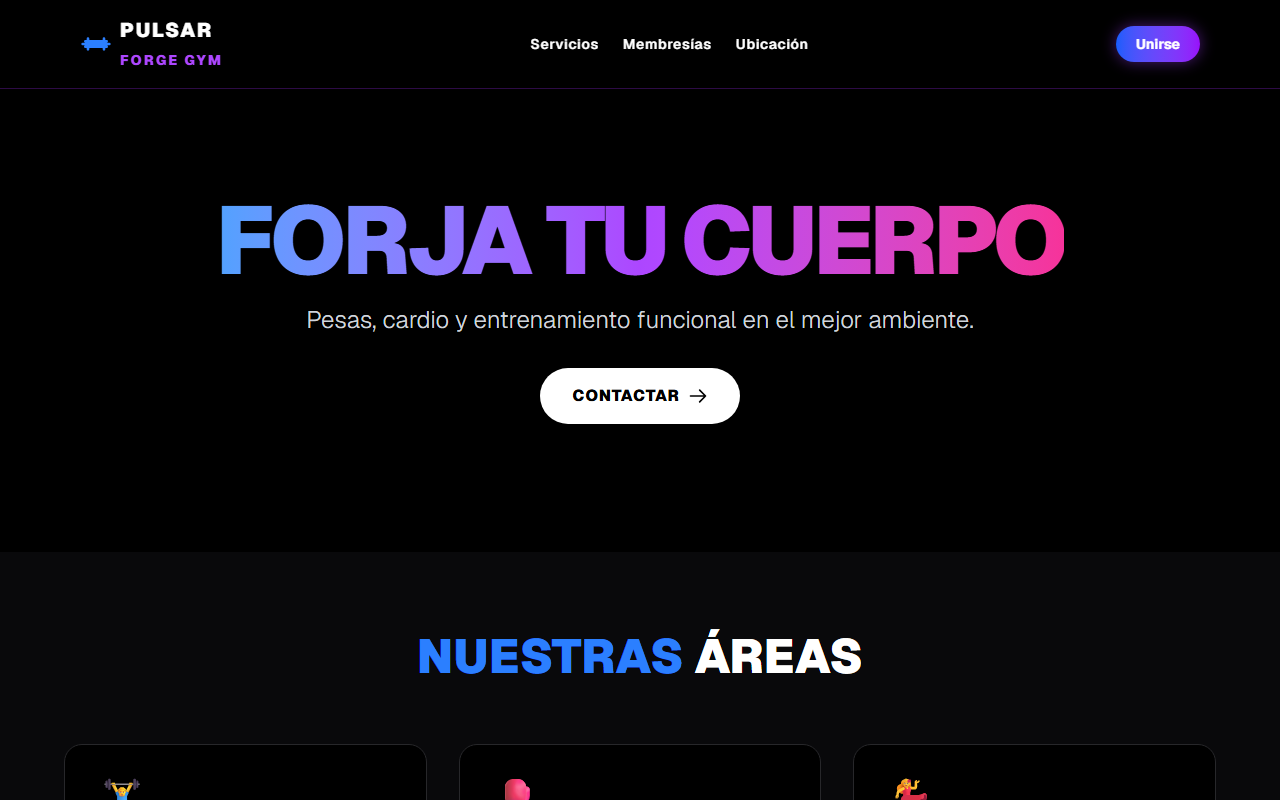
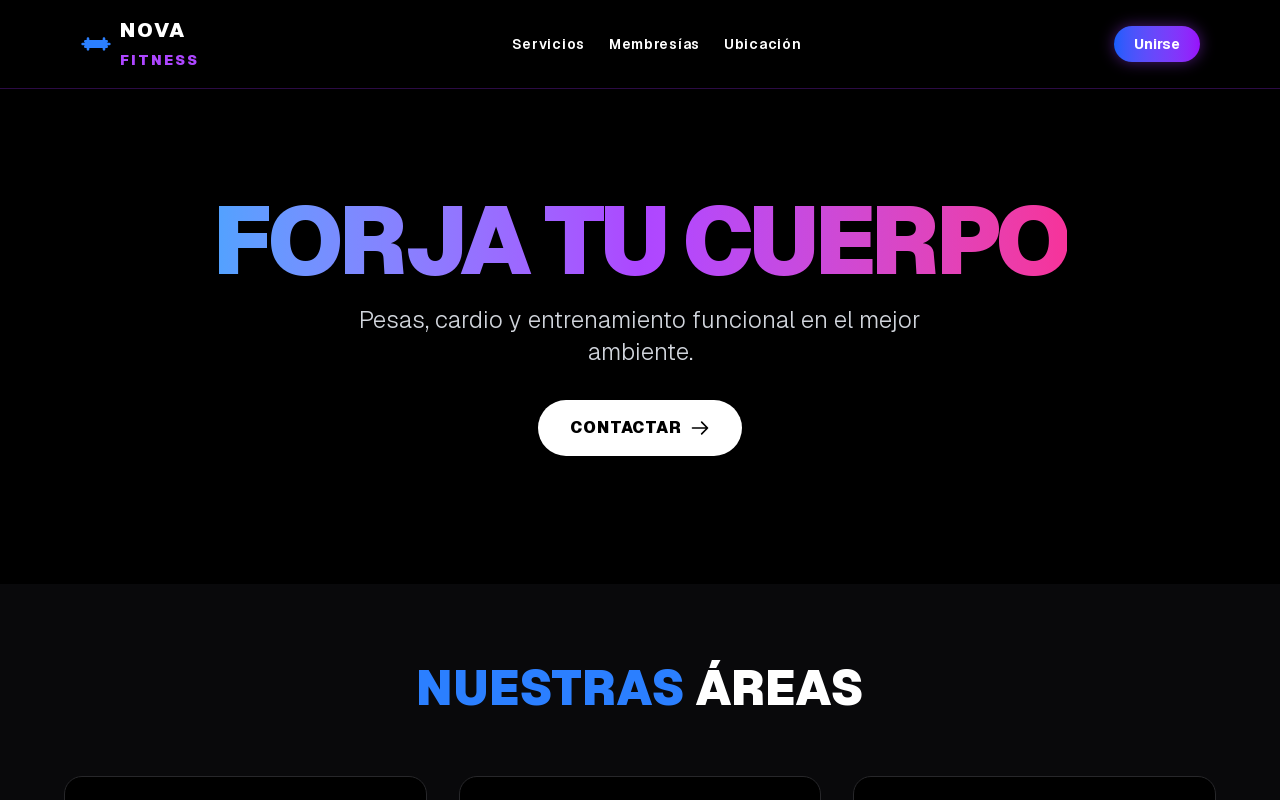
Plantillas de gym genéricas, botones visibles en tema claro y precios en celular
- Dark Purple y Orange Industrial ya no usan los datos reales de Pulsar Forge
  Gym y X GYM: ahora son "Nova Fitness" y "Titanio Gym" con direcciones
  ficticias, también como contenido inicial de landings nuevas. Las
  versiones reales siguen en /preview. Capturas del catálogo regeneradas.
- Botón "outline" con borde y sombra visibles en tema claro (antes se perdía
  sobre fondo blanco, p. ej. "Exportar").
- La animación de aparecer con el scroll solo corre desde tablet: en celular
  las tarjetas de precios se veían deslavadas mientras se leían.

diff --git a/src/lib/landings/model.ts b/src/lib/landings/model.ts
@@ -156,14 +156,14 @@ export const DEFAULT_LANDING_CONTENT: LandingContentByTemplate = {
     imagenes: [],
   },
   "dark-purple": {
-    nombre: "Pulsar Forge Gym",
+    nombre: "Nova Fitness",
     tipo: "Gimnasio & Fitness",
     slogan: "Forja tu cuerpo",
     subtitulo: "Pesas, cardio y entrenamiento funcional en el mejor ambiente.",
     whatsapp: "524428367627",
-    instagram: "pulsarforgegym",
-    direccion: "Río Nilo 3-Bodega 4, 76922 Arroyo Hondo, Qro.",
-    maps_embed: "https://maps.google.com/maps?q=Arroyo+Hondo+Queretaro&output=embed",
+    instagram: "novafitness",
+    direccion: "Av. Principal 120, Centro, Querétaro, Qro.",
+    maps_embed: "https://maps.google.com/maps?q=Queretaro&output=embed",
     horarios: [
       { dia: "Lunes a Viernes", hora: "6:00 am – 10:30 pm" },
       { dia: "Sábado", hora: "7:00 am – 2:00 pm" },
@@ -203,16 +203,16 @@ export const DEFAULT_LANDING_CONTENT: LandingContentByTemplate = {
     imagenes: [],
   },
   "orange-industrial": {
-    nombre: "X GYM Fitness",
+    nombre: "Titanio Gym",
     tipo: "Gimnasio Industrial",
-    ciudad: "Huimilpan, Qro.",
+    ciudad: "Querétaro, Qro.",
     slogan: "Fuerza Bruta.",
     slogan2: "Cero Excusas.",
     descripcion:
       "Equipamiento de alto rendimiento, peso libre y el mejor ambiente de entrenamiento en una nave industrial diseñada para forjar resultados.",
     whatsapp: "524428367627",
-    direccion: "Francisco I. Madero Nte. 186, 76950 Huimilpan, Qro.",
-    maps_embed: "https://maps.google.com/maps?q=Huimilpan+Queretaro&output=embed",
+    direccion: "Calle Industria 45, Centro, Querétaro, Qro.",
+    maps_embed: "https://maps.google.com/maps?q=Queretaro&output=embed",
     horarios: [
       { dia: "Lunes a Viernes", hora: "6:00 am – 10:00 pm" },
       { dia: "Sábado", hora: "7:00 am – 3:00 pm" },

diff --git a/src/app/(marketing)/plantillas/orange-industrial/page.tsx b/src/app/(marketing)/plantillas/orange-industrial/page.tsx
@@ -5,16 +5,16 @@ import { useAnalytics } from "@/hooks/use-analytics";
 import type { LandingContentByTemplate } from "@/lib/landings/model";
 
 const DEMO_NEGOCIO: LandingContentByTemplate["orange-industrial"] = {
-  nombre: "X GYM Fitness",
+  nombre: "Titanio Gym",
   tipo: "Gimnasio Industrial",
-  ciudad: "Huimilpan, Qro.",
+  ciudad: "Querétaro, Qro.",
   slogan: "Fuerza Bruta.",
   slogan2: "Cero Excusas.",
   descripcion:
     "Equipamiento de alto rendimiento, peso libre y el mejor ambiente de entrenamiento en una nave industrial diseñada para forjar resultados.",
   whatsapp: "524428367627",
-  direccion: "Francisco I. Madero Nte. 186, 76950 Huimilpan, Qro.",
-  maps_embed: "https://maps.google.com/maps?q=Huimilpan+Queretaro&output=embed",
+  direccion: "Calle Industria 45, Centro, Querétaro, Qro.",
+  maps_embed: "https://maps.google.com/maps?q=Queretaro&output=embed",
   horarios: [
     { dia: "Lunes a Viernes", hora: "6:00 am – 10:00 pm" },
     { dia: "Sábado", hora: "7:00 am – 3:00 pm" },

diff --git a/src/app/(marketing)/plantillas/dark-purple/page.tsx b/src/app/(marketing)/plantillas/dark-purple/page.tsx
@@ -5,14 +5,14 @@ import { useAnalytics } from "@/hooks/use-analytics";
 import type { LandingContentByTemplate } from "@/lib/landings/model";
 
 const DEMO_NEGOCIO: LandingContentByTemplate["dark-purple"] = {
-  nombre: "Pulsar Forge Gym",
+  nombre: "Nova Fitness",
   tipo: "Gimnasio & Fitness",
   slogan: "Forja tu cuerpo",
   subtitulo: "Pesas, cardio y entrenamiento funcional en el mejor ambiente.",
   whatsapp: "524428367627",
-  instagram: "pulsarforgegym",
-  direccion: "Río Nilo 3-Bodega 4, 76922 Arroyo Hondo, Qro.",
-  maps_embed: "https://maps.google.com/maps?q=Arroyo+Hondo+Queretaro&output=embed",
+  instagram: "novafitness",
+  direccion: "Av. Principal 120, Centro, Querétaro, Qro.",
+  maps_embed: "https://maps.google.com/maps?q=Queretaro&output=embed",
   horarios: [
     { dia: "Lunes a Viernes", hora: "6:00 am – 10:30 pm" },
     { dia: "Sábado", hora: "7:00 am – 2:00 pm" },

diff --git a/src/components/ui/button.tsx b/src/components/ui/button.tsx
@@ -10,7 +10,7 @@ const buttonVariants = cva(
       variant: {
         default: "bg-primary text-primary-foreground hover:bg-primary/80",
         outline:
-          "border-border bg-background hover:bg-muted hover:text-foreground aria-expanded:bg-muted aria-expanded:text-foreground dark:border-input dark:bg-input/30 dark:hover:bg-input/50",
+          "border-[color-mix(in_oklch,var(--border),var(--foreground)_15%)] bg-background shadow-xs hover:bg-muted hover:text-foreground aria-expanded:bg-muted aria-expanded:text-foreground dark:border-input dark:bg-input/30 dark:hover:bg-input/50",
         secondary:
           "bg-secondary text-secondary-foreground hover:bg-[color-mix(in_oklch,var(--secondary),var(--foreground)_5%)] aria-expanded:bg-secondary aria-expanded:text-secondary-foreground",
         ghost:

diff --git a/src/app/globals.css b/src/app/globals.css
@@ -379,12 +379,15 @@ html:has([data-landing-page]) {
     animation: gl-entrar 0.35s ease-out both;
   }
 
-  /* Aparece al entrar en pantalla con el scroll. */
-  @supports (animation-timeline: view()) {
-    .gl-revelar {
-      animation: gl-entrar linear both;
-      animation-timeline: view();
-      animation-range: entry 0% entry 70%;
+  /* Aparece al entrar en pantalla con el scroll. Solo desde tablet: en celular las tarjetas son más altas
+     que media pantalla y se verían deslavadas mientras se leen. */
+  @media (width >= 768px) {
+    @supports (animation-timeline: view()) {
+      .gl-revelar {
+        animation: gl-entrar linear both;
+        animation-timeline: view();
+        animation-range: entry 0% entry 70%;
+      }
     }
   }
 
